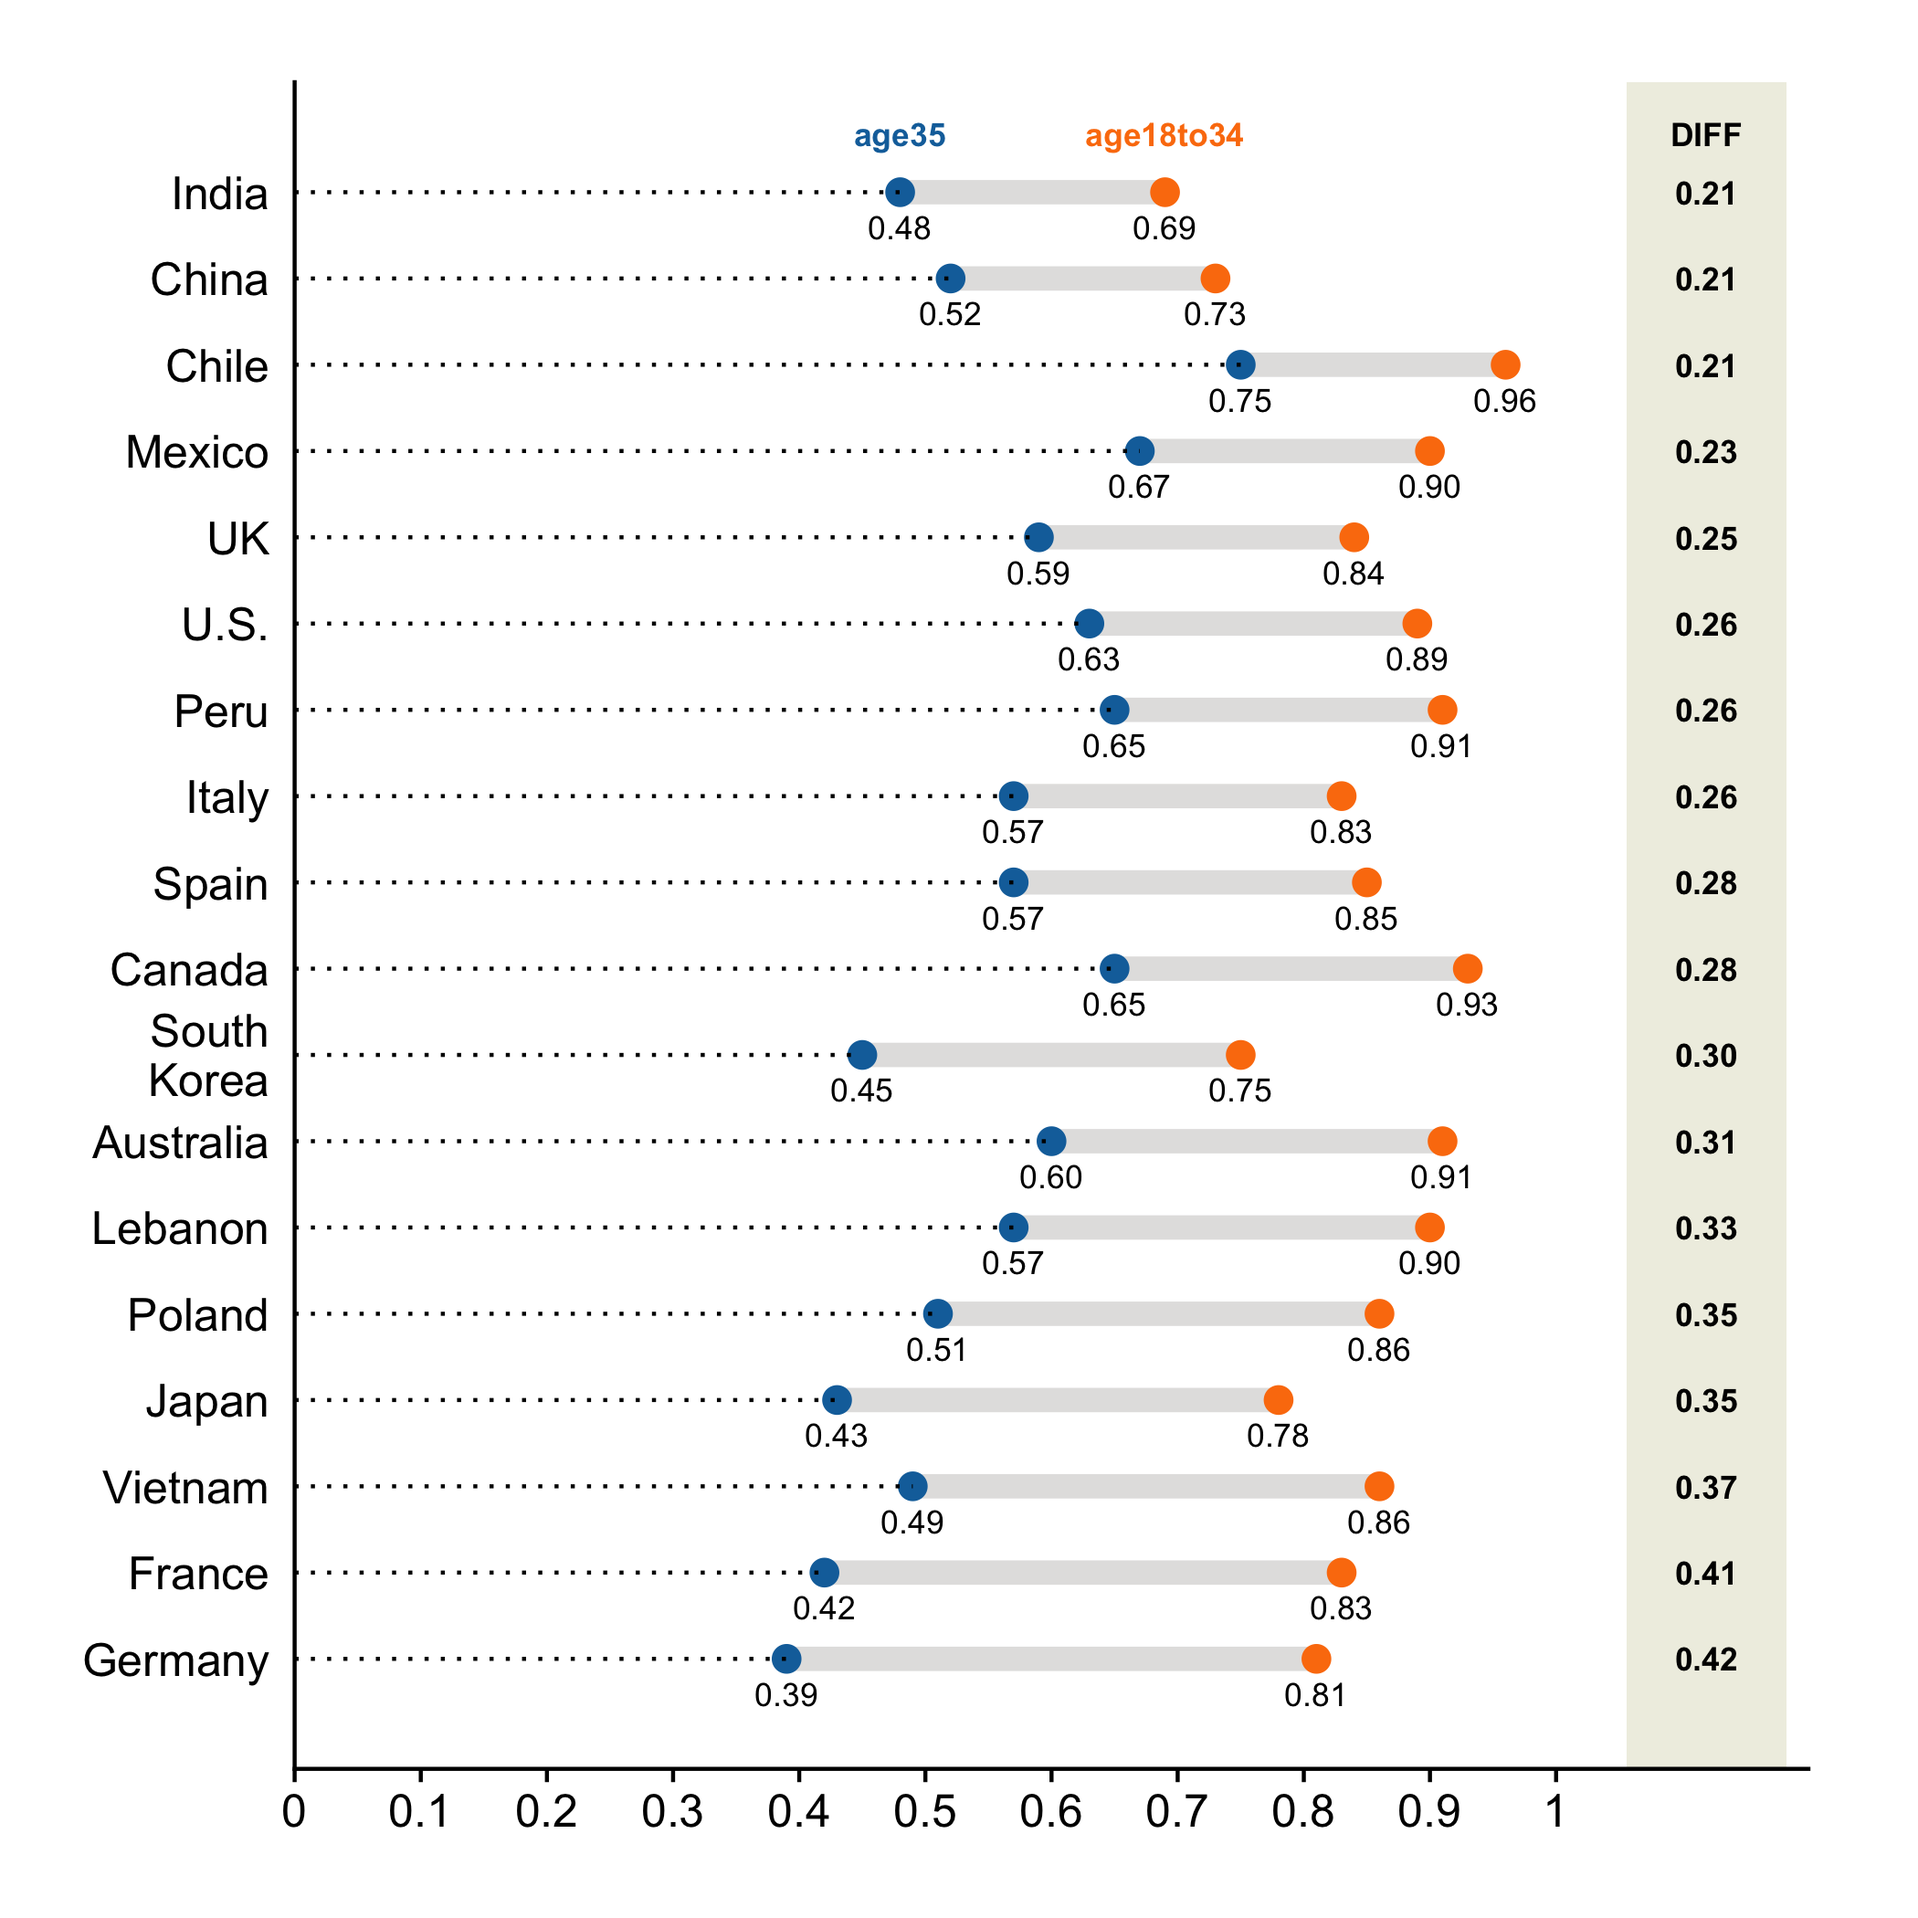
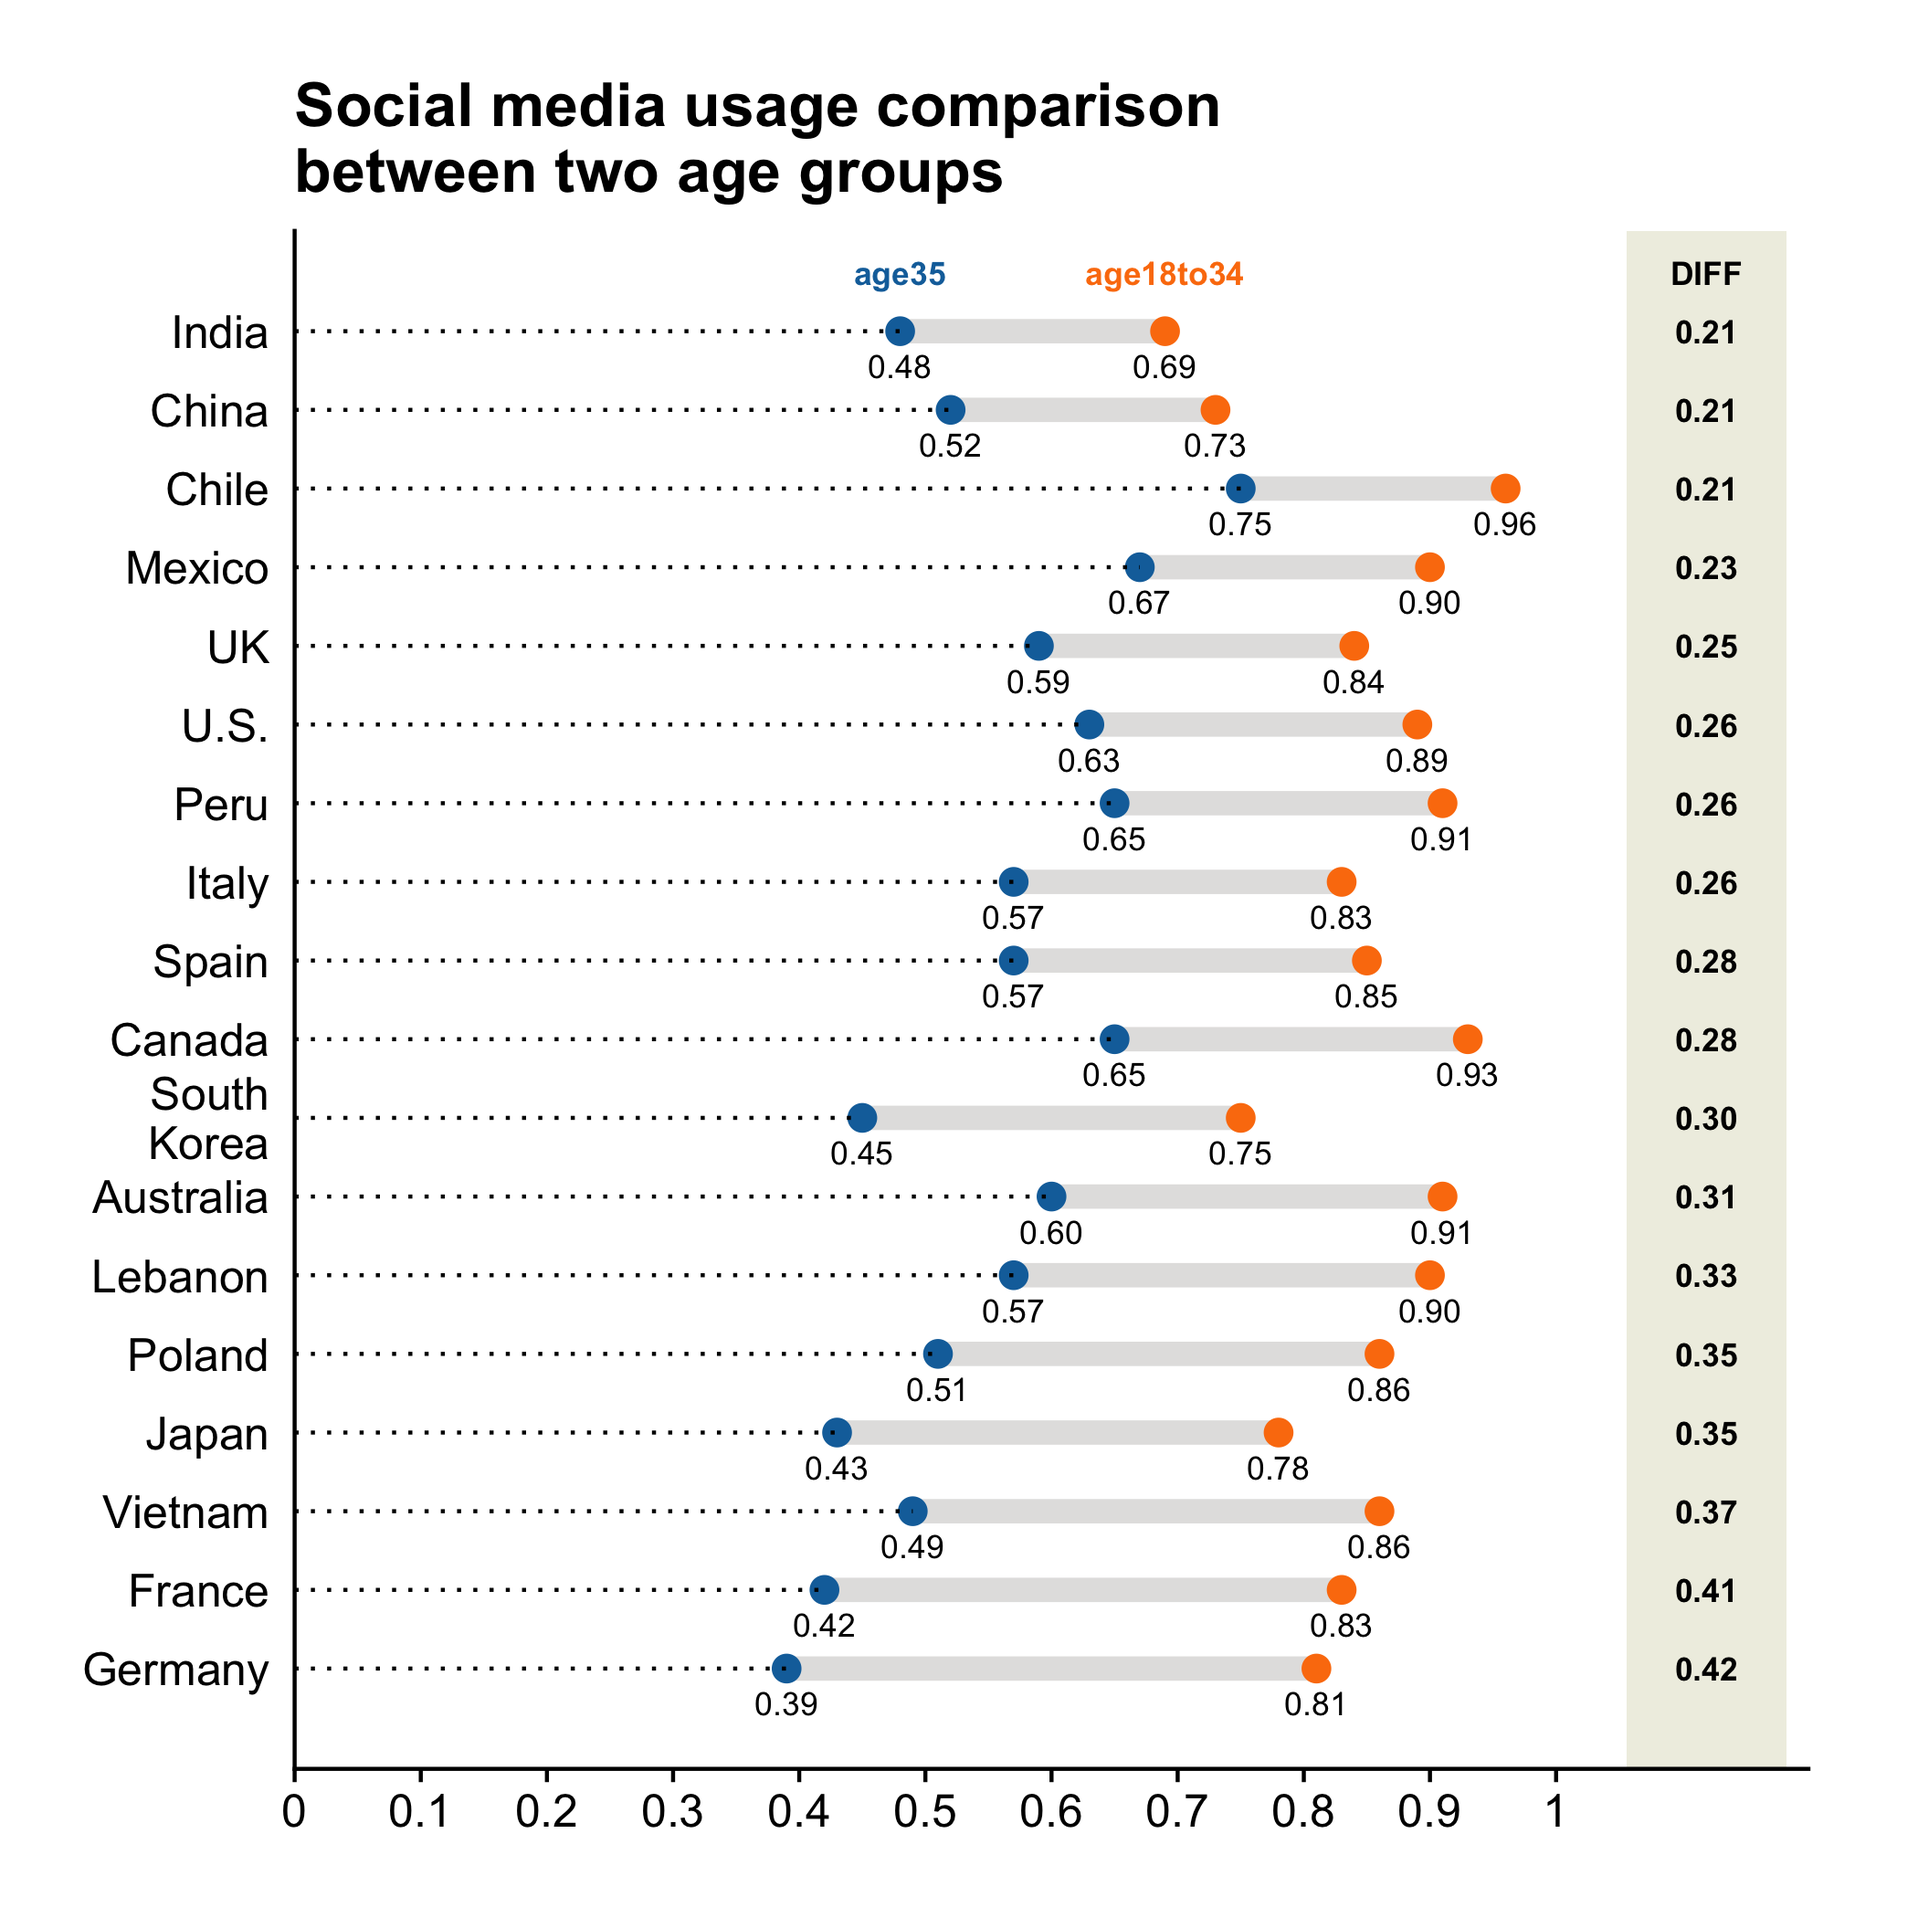
no message

diff --git a/manuscript/05-03-dumbbell.md b/manuscript/05-03-dumbbell.md
@@ -32,7 +32,7 @@ plt = mk_dumbbell(df)
 plt(xvar_left = "lt", xvar_right = "rt", yvar = "trt")
 ```
 
-![lt vs. rt across trt](images/dumbbell_fake-1.png)
+![](images/dumbbell_fake-1.png)
 
 When making a dumbbell plot, the data frame must already be in a form such that
 the categorical variable to be used has no repeated levels. For example, in the
@@ -71,10 +71,11 @@ Let's use a dumbbell plot to display the data.
 ```r
 plt = mk_dumbbell(df)
 plt(xvar_left = "age35", xvar_right = "age18to34", yvar = "country", 
-    yorder = "ascend", label_decimals = 2)
+    yorder = "ascend", label_decimals = 2) %>% 
+        add_labs(title = 'Social media usage comparison \nbetween two age groups')
 ```
 
-![Social Media Usage of 2 Age Groups](images/dumbbell_sm_p1-1.png)
+![](images/dumbbell_sm_p1-1.png)
 
 In the chart above, we sorted the countries in ascending order of the differences
 between the two age groups by setting `yorder = "ascend"`. We can also sort 
@@ -84,10 +85,11 @@ choose to show them in % format by setting `show_pct = T`.
 
 ```r
 plt("age35", "age18to34", "country", yorder = "descend", show_pct = T,
-    label_decimals = 0)
+    label_decimals = 0) %>% 
+        add_labs(title = 'Social media usage comparison \nbetween two age groups')
 ```
 
-![Social Media Usage of 2 Age Groups](images/dumbbell_sm_p2-1.png)
+![](images/dumbbell_sm_p2-1.png)
 
 Notice ezplot automatically uses the two x-variable names (age35 and 
 age18to34) as the labels of the points. It also calculates the differences 
